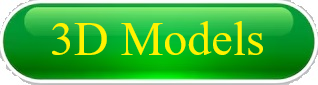
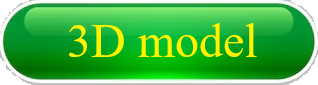
update buttons
fixed button background not transparent problem

Changed region(s): [[0.1415, 0.2353, 0.8491, 0.6824], [0.9906, 0.2824, 1.0, 0.3059], [0.1415, 0.3294, 0.1698, 0.3529]]

diff --git a/JsonData.js b/JsonData.js
@@ -2,13 +2,13 @@ function loadSideBar() {
   return {
     "buttons": [
       { "buttonImg": "images/header.jpg", "buttonPath": "home.html" },
-      { "buttonImg": "images/button_aboutMe.jpg", "buttonPath": "about.html" },
-      { "buttonImg": "images/button_3DModel.jpg", "buttonPath": "model.html" },
-      { "buttonImg": "images/button_animations.jpg", "buttonPath": "animation.html" },
-      { "buttonImg": "images/button_itch.jpg", "buttonPath": "https://apeironcheung.itch.io" },
-      { "buttonImg": "images/button_git.jpg", "buttonPath": "https://https://github.com/ApeironCheung" },
-      { "buttonImg": "images/button_patreon.jpg", "buttonPath": "https://www.patreon.com/c/apeironcheung" },
-      { "buttonImg": "images/button_spiritChannel.jpg", "buttonPath": "https://www.youtube.com/@Spirit-Channel-main" }
+      { "buttonImg": "images/button_aboutMe.png", "buttonPath": "about.html" },
+      { "buttonImg": "images/button_3DModel.png", "buttonPath": "model.html" },
+      { "buttonImg": "images/button_animations.png", "buttonPath": "animation.html" },
+      { "buttonImg": "images/button_itch.png", "buttonPath": "https://apeironcheung.itch.io" },
+      { "buttonImg": "images/button_git.png", "buttonPath": "https://https://github.com/ApeironCheung" },
+      { "buttonImg": "images/button_patreon.png", "buttonPath": "https://www.patreon.com/c/apeironcheung" },
+      { "buttonImg": "images/button_spiritChannel.png", "buttonPath": "https://www.youtube.com/@Spirit-Channel-main" }
     ]
   };
 }
@@ -16,9 +16,9 @@ function loadSideBar() {
 function load3Dmodels(){
   return{
     "description":[
-      {"content":""}
+      {"paragraph":"These are the 3D models I made in York U course DATT2500"}
     ],
-    "models":[
+    "content":[
       {"name": "Honda Civic", "id" :"82FLoqlvvpI", "year":"2020", "software":"Maya",
         "description" : "First homework of 3D modeling course in York U, exercising extrude and other basic functions."},
       {"name": "Shark", "id":"Vcjfl2ALfr8", "year":"2020", "software":"Maya",
@@ -32,9 +32,9 @@ function load3Dmodels(){
 function loadAnimations(){
   return{
         "description":[
-      {"content":""}
+      {"paragraph":"These are the animation I made in York U course DATT2501."}
     ],
-    "animations":[
+    "content":[
       {"name": "Dropping Balls", "id" : "3lkUcmYStag", "year":"2021", "software":"Maya",
         "description" :"First homework of 3D animation course in York U, applying motion physics in animation."},
       {"name":"Taekwondo", "id":"8okUTD02UE8", "year":"2021", "software":"Maya",
